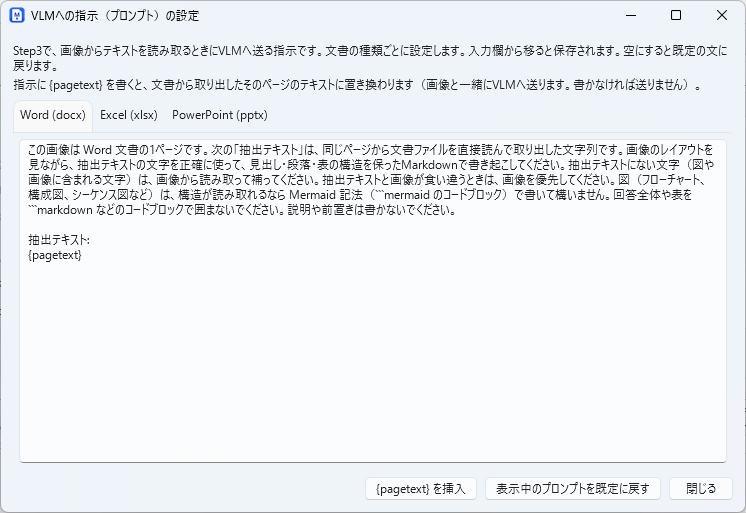
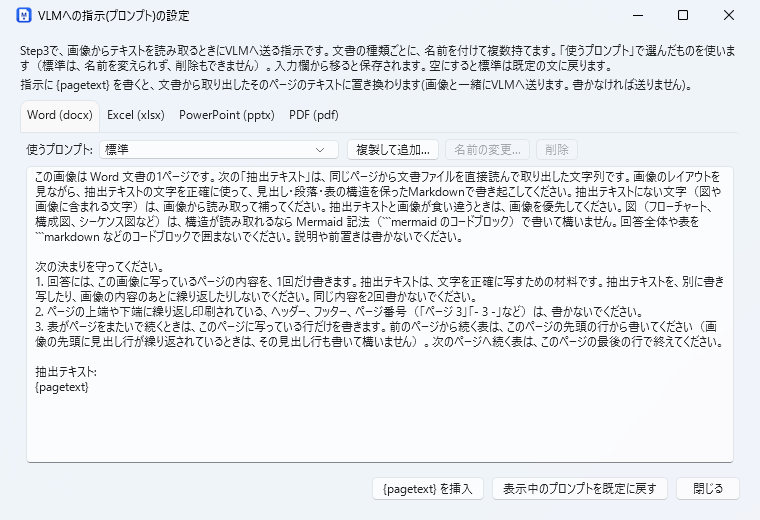
docs: the screenshots of the main window and of the prompts (the row of prompts, the whole sheet); tests for the page of joined rows, the comment of the converter and the whole sheet; the note of the prompt settings tells of the names

diff --git a/src/MarkPortO.App/Resources/Strings.ja.xaml b/src/MarkPortO.App/Resources/Strings.ja.xaml
@@ -216,7 +216,7 @@
   <sys:String x:Key="Conn_LastRun">(最後に実行: {0})</sys:String>
   <sys:String x:Key="Conn_Waiting">応答を待っています…({0} 秒経過。ローカルのモデルは時間がかかることがあります)</sys:String>
   <sys:String x:Key="Prompts_Title">VLMへの指示(プロンプト)の設定</sys:String>
-  <sys:String x:Key="Prompts_Note">Step3で、画像からテキストを読み取るときにVLMへ送る指示です。文書の種類ごとに設定します。入力欄から移ると保存されます。空にすると既定の文に戻ります。</sys:String>
+  <sys:String x:Key="Prompts_Note">Step3で、画像からテキストを読み取るときにVLMへ送る指示です。文書の種類ごとに、名前を付けて複数持てます。「使うプロンプト」で選んだものを使います（標準は、名前を変えられず、削除もできません）。入力欄から移ると保存されます。空にすると標準は既定の文に戻ります。</sys:String>
   <sys:String x:Key="Prompts_PageText">指示に {pagetext} を書くと、文書から取り出したそのページのテキストに置き換わります(画像と一緒にVLMへ送ります。書かなければ送りません)。</sys:String>
   <sys:String x:Key="Prompts_InsertPageText">{pagetext} を挿入</sys:String>
   <sys:String x:Key="Prompts_Reset">表示中のプロンプトを既定に戻す</sys:String>

diff --git a/src/MarkPortO.App/Resources/Strings.en.xaml b/src/MarkPortO.App/Resources/Strings.en.xaml
@@ -216,7 +216,7 @@
   <sys:String x:Key="Conn_LastRun"> (last run: {0})</sys:String>
   <sys:String x:Key="Conn_Waiting">Waiting for a response... ({0} s elapsed. A local model can take a while)</sys:String>
   <sys:String x:Key="Prompts_Title">VLM prompt settings</sys:String>
-  <sys:String x:Key="Prompts_Note">The instruction sent to the VLM in Step3 to read the text from an image. It is set for each type of document. It is saved when you leave the box. If you empty it, the default text comes back.</sys:String>
+  <sys:String x:Key="Prompts_Note">The instruction sent to the VLM in Step3 to read the text from an image. Each type of document can have several prompts with a name; the one chosen in "Prompt in use" is sent (the standard one cannot be renamed or deleted). It is saved when you leave the box. If you empty the standard one, the default text comes back.</sys:String>
   <sys:String x:Key="Prompts_PageText">{pagetext} in a prompt is replaced by the text taken from the page of the document (it is sent to the VLM with the image; without it, no text is sent).</sys:String>
   <sys:String x:Key="Prompts_InsertPageText">Insert {pagetext}</sys:String>
   <sys:String x:Key="Prompts_Reset">Reset the shown prompt to the default</sys:String>

diff --git a/tests/MarkPortO.Core.Tests/Pipeline/JoinedTableOnlyTests.cs b/tests/MarkPortO.Core.Tests/Pipeline/JoinedTableOnlyTests.cs
@@ -1,0 +1,212 @@
+// SPDX-License-Identifier: GPL-3.0-only
+// Copyright (C) 2026 umineko73
+//
+// This file is part of MarkPortO.
+//
+// MarkPortO is free software: you can redistribute it and/or modify it under the terms of
+// the GNU General Public License, version 3 only, as published by the Free Software Foundation.
+//
+// MarkPortO is distributed in the hope that it will be useful, but WITHOUT ANY WARRANTY;
+// without even the implied warranty of MERCHANTABILITY or FITNESS FOR A PARTICULAR PURPOSE.
+// See the GNU General Public License for more details.
+//
+// You should have received a copy of the GNU General Public License along with MarkPortO.
+// If not, see <https://www.gnu.org/licenses/gpl-3.0.html>.
+
+using System.Text.Json;
+using MarkPortO.Core.Jobs.Models;
+using MarkPortO.Core.Markdown;
+using MarkPortO.Core.Ooxml;
+using MarkPortO.Core.Pipeline;
+
+namespace MarkPortO.Core.Tests.Pipeline;
+
+/// <summary>FR-117 (a page of the rows of a joined table only is not sent to the VLM), FR-116 (the comment of the converter) and FR-073 (the whole sheet on one page).</summary>
+public class JoinedTableOnlyTests
+{
+    private static Block Table(int page, int? joinedTo = null) =>
+        new() { Kind = BlockKind.Table, Markdown = "| a | b |\n|---|---|\n| 1 | 2 |", PageIndex = page, JoinedToPage = joinedTo };
+
+    private static DocumentRecord Document(Step1TablesMode mode, params Block[] blocks) => new()
+    {
+        MarkdownLanguage = "ja",
+        DocId = "d0001",
+        SourcePath = @"D:\in\a.docx",
+        Kind = DocumentKind.Docx,
+        OutputFolder = @"D:\out\a",
+        Step1 = StepStatus.Done,
+        Step2 = StepStatus.Done,
+        Step3 = StepStatus.Running,
+        Step1Tables = mode,
+        Pages =
+        [
+            new PageRecord { Index = 1, SourceLabel = "page:1", ImageFile = "images/page-001.png" },
+            new PageRecord { Index = 2, SourceLabel = "page:2", ImageFile = "images/page-002.png" },
+            new PageRecord { Index = 3, SourceLabel = "page:3", ImageFile = "images/page-003.png" },
+        ],
+        Blocks = [.. blocks],
+    };
+
+    [Theory]
+    [InlineData(Step1TablesMode.Replace)]
+    [InlineData(Step1TablesMode.Omit)]
+    public void WhenTheTablesOfStep1AreUsed_ThePagesOfJoinedRowsOnly_AreNotRead(Step1TablesMode mode)
+    {
+        var document = Document(mode, Table(1), Table(2, joinedTo: 1), Table(3, joinedTo: 1));
+
+        Step3Worker.MarkJoinedTableOnly(document);
+
+        Assert.Equal([false, true, true], document.Pages.Select(p => p.IsJoinedTableOnly));
+        Assert.Equal([true, false, false], document.Pages.Select(p => p.ReadsInStep3));
+    }
+
+    [Fact]
+    public void WithTheTablesOfTheVlm_EveryPageIsRead()
+    {
+        var document = Document(Step1TablesMode.Off, Table(1), Table(2, joinedTo: 1));
+
+        Step3Worker.MarkJoinedTableOnly(document);
+
+        Assert.All(document.Pages, p => Assert.True(p.ReadsInStep3));
+    }
+
+    [Fact]
+    public void APageWithAParagraphBesideTheJoinedRows_IsRead()
+    {
+        var document = Document(
+            Step1TablesMode.Replace,
+            Table(1),
+            Table(2, joinedTo: 1),
+            new Block { Kind = BlockKind.Paragraph, Markdown = "A paragraph.", PageIndex = 2 });
+
+        Step3Worker.MarkJoinedTableOnly(document);
+
+        Assert.False(document.Pages[1].IsJoinedTableOnly);
+    }
+
+    [Fact]
+    public void TheChoiceIsMadeAgainWhenTheModeChanges()
+    {
+        var document = Document(Step1TablesMode.Replace, Table(1), Table(2, joinedTo: 1));
+        Step3Worker.MarkJoinedTableOnly(document);
+        Assert.True(document.Pages[1].IsJoinedTableOnly);
+
+        document.Step1Tables = Step1TablesMode.Off;
+        Step3Worker.MarkJoinedTableOnly(document);
+
+        Assert.False(document.Pages[1].IsJoinedTableOnly);
+    }
+
+    [Fact]
+    public void TheMarkdown_SaysWhyTheVlmDidNotReadThePage()
+    {
+        var document = Document(Step1TablesMode.Replace, Table(1), Table(2, joinedTo: 1));
+        document.Step3 = StepStatus.Done;
+        document.Pages[0].Step3 = PageStep3Status.Done;
+        document.Pages[0].VlmText = "text";
+        document.Pages[1].IsJoinedTableOnly = true;
+        document.Pages[1].Step3 = PageStep3Status.Skipped;
+        document.Pages[2].IsBlank = true;
+        document.Pages[2].Step3 = PageStep3Status.Skipped;
+
+        var markdown = MarkdownRenderer.Render(document);
+
+        Assert.Contains("<!-- vlm:skipped page=2 reason=\"joined table\" -->", markdown, StringComparison.Ordinal);
+        Assert.Contains("<!-- vlm:skipped page=3 reason=\"blank page\" -->", markdown, StringComparison.Ordinal);
+    }
+
+    [Fact]
+    public void TheConverterComment_NamesTheToolsTheModelAndThePrompt_InTheMainFileAndTheVlmFile()
+    {
+        var document = Document(Step1TablesMode.Off, Table(1));
+        document.Converter = "MarkPortO 0.2.2; engine: Microsoft Word 16.0.1";
+        document.VlmModel = "claude haiku";
+        document.VlmPrompt = "cloud -- test"; // a double hyphen would end the comment
+
+        var main = MarkdownRenderer.Render(document);
+        var vlm = MarkdownRenderer.RenderVlm(document);
+
+        foreach (var markdown in new[] { main, vlm })
+        {
+            Assert.Contains("<!-- converter: MarkPortO 0.2.2; engine: Microsoft Word 16.0.1; vlm: claude haiku; prompt: cloud - - test -->", markdown, StringComparison.Ordinal);
+        }
+    }
+
+    [Fact]
+    public void WithoutTheConverter_NoCommentIsWritten_AndWithoutStep3_NoModel()
+    {
+        var old = Document(Step1TablesMode.Off, Table(1));
+        Assert.DoesNotContain("converter:", MarkdownRenderer.Render(old), StringComparison.Ordinal);
+
+        var plain = Document(Step1TablesMode.Off, Table(1));
+        plain.Converter = "MarkPortO 0.2.2";
+        var markdown = MarkdownRenderer.Render(plain);
+        Assert.Contains("<!-- converter: MarkPortO 0.2.2 -->", markdown, StringComparison.Ordinal);
+        Assert.DoesNotContain("vlm:", markdown.Split('\n').Single(l => l.StartsWith("<!-- converter", StringComparison.Ordinal)), StringComparison.Ordinal);
+    }
+
+    [Fact]
+    public void TheVersionOfTheProgram_IsReadFromTheAssembly()
+    {
+        Assert.Matches(@"^\d+\.\d+\.\d+", AppVersion.Current);
+        Assert.DoesNotContain('+', AppVersion.Current);
+    }
+
+    private static SheetContent Sheet(double width, int rows) => new()
+    {
+        Name = "Data",
+        FirstColumn = 1,
+        LastColumn = 1,
+        FirstRow = 1,
+        LastRow = rows,
+        Rows = [new string[] { "x" }],
+        ColumnWidthsPoints = [width],
+    };
+
+    [Fact]
+    public void TheWholeSheetOnOnePage_GetsTheDpiThatItsHeightNeeds()
+    {
+        // 2000 rows of 15 pt on a portrait page: the page is 1190.55 - 36 = 1154.55 pt high, so the scale is 1154.55 / 30000.
+        var sheet = Sheet(width: 100, rows: 2000);
+        var unit = Assert.Single(ExcelUnitPlanner.Plan(sheet, ExcelRange.Sheet));
+
+        Assert.False(ExcelUnitPlanner.IsLandscape(sheet));
+        Assert.Equal(0.6 / (1154.55 / 30000), ExcelUnitPlanner.DpiFactor(sheet, unit, ExcelRange.Sheet), 3);
+    }
+
+    [Fact]
+    public void ASmallSheetOnOnePage_KeepsTheDpi_AndAWideOneIsLandscape()
+    {
+        var small = Sheet(width: 100, rows: 10);
+        Assert.Equal(1.0, ExcelUnitPlanner.DpiFactor(small, Assert.Single(ExcelUnitPlanner.Plan(small, ExcelRange.Sheet)), ExcelRange.Sheet), 3);
+
+        var wide = Sheet(width: 4000, rows: 20);
+        Assert.True(ExcelUnitPlanner.IsLandscape(wide));
+        Assert.True(ExcelUnitPlanner.DpiFactor(wide, Assert.Single(ExcelUnitPlanner.Plan(wide, ExcelRange.Sheet)), ExcelRange.Sheet) > 1.0);
+    }
+
+    [Fact]
+    public void TheWholeSheet_IsNeverSplit_EvenWhenVeryWide()
+    {
+        var sheet = Sheet(width: ExcelUnitPlanner.MaxGroupWidthPoints * 3, rows: 5);
+
+        Assert.Single(ExcelUnitPlanner.Plan(sheet, ExcelRange.Sheet));
+        Assert.True(ExcelUnitPlanner.Plan(sheet, ExcelRange.Columns).Count >= 1);
+    }
+
+    [Theory]
+    [InlineData("\"rows\"", ExcelRange.Columns)]
+    [InlineData("\"Rows\"", ExcelRange.Columns)]
+    [InlineData("\"sheet\"", ExcelRange.Sheet)]
+    [InlineData("\"printarea\"", ExcelRange.PrintArea)]
+    public void AnOldSettingOfRows_IsReadAsColumns(string json, ExcelRange expected)
+    {
+        Assert.Equal(expected, JsonSerializer.Deserialize<ExcelRange>(json, JsonDefaults.Options));
+    }
+
+    [Fact]
+    public void TheRangeIsWrittenInLowerCase()
+    {
+        Assert.Equal("\"sheet\"", JsonSerializer.Serialize(ExcelRange.Sheet, JsonDefaults.Options));
+    }
+}

diff --git a/src/MarkPortO.Core/Pipeline/Step3Worker.cs b/src/MarkPortO.Core/Pipeline/Step3Worker.cs
@@ -162,7 +162,7 @@ public sealed class Step3Worker : IPipelineStep<DocumentWork>
     /// (not <see cref="Step1TablesMode.Off"/>), such a page has nothing for the VLM to add, so it is not sent. With the VLM tables
     /// (<see cref="Step1TablesMode.Off"/>) the rows are read from the image and joined afterwards, so the page is read.
     /// </summary>
-    private static void MarkJoinedTableOnly(DocumentRecord document)
+    internal static void MarkJoinedTableOnly(DocumentRecord document)
     {
         var onlyJoined = new HashSet<int>();
         if (document.Step1Tables != Step1TablesMode.Off)
